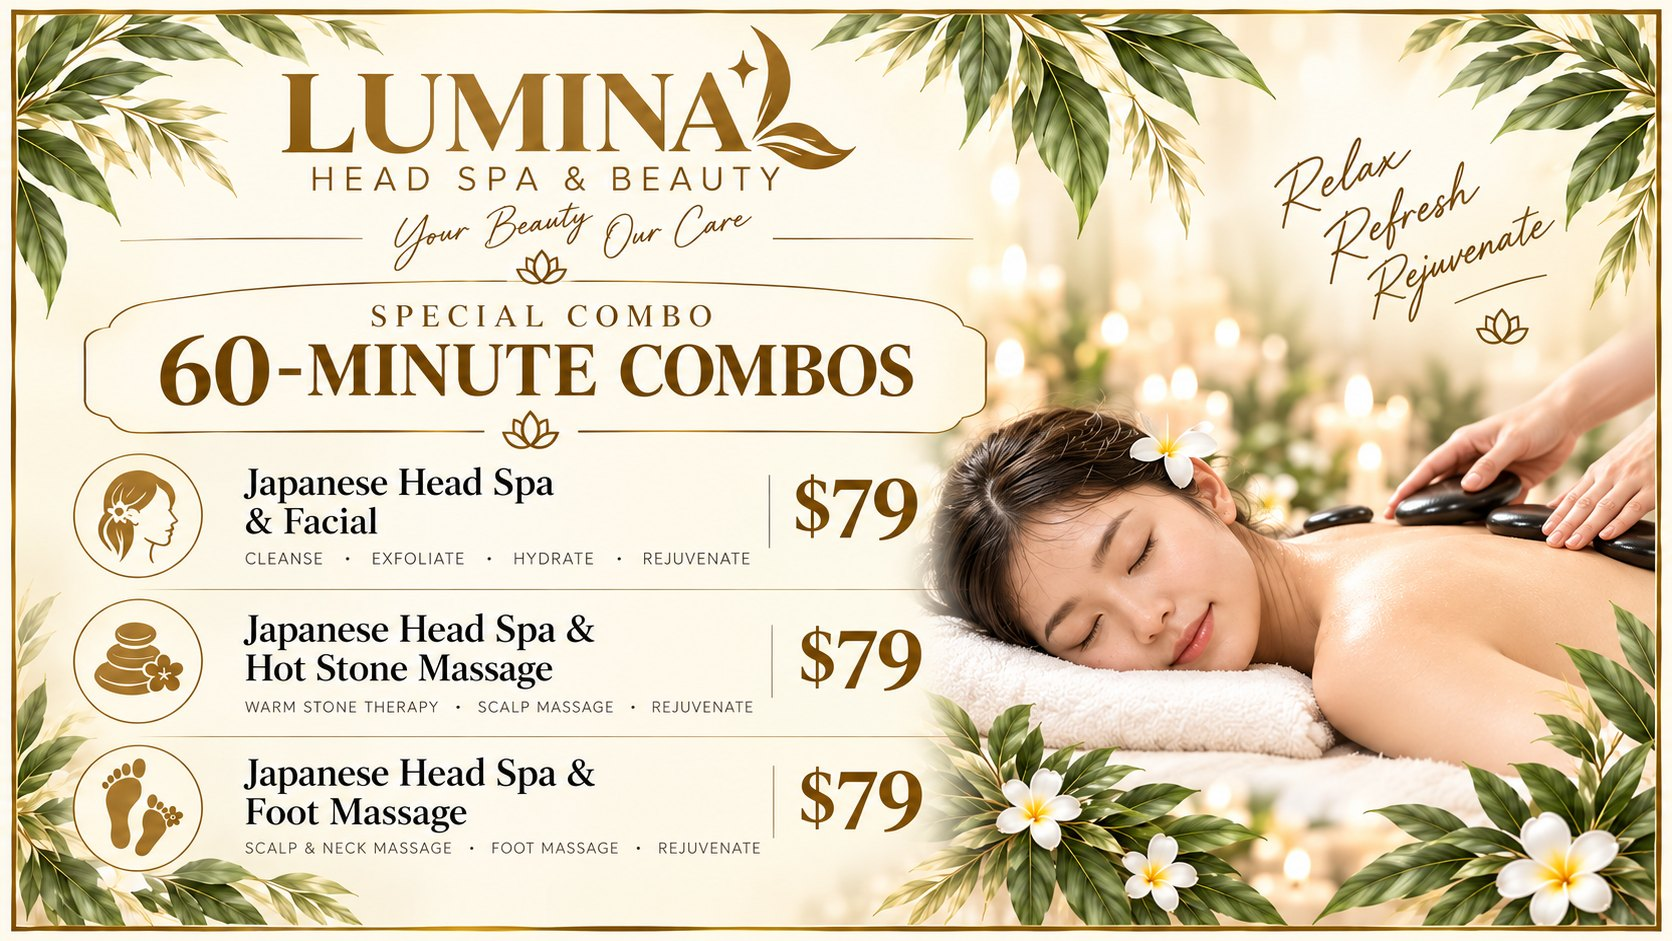
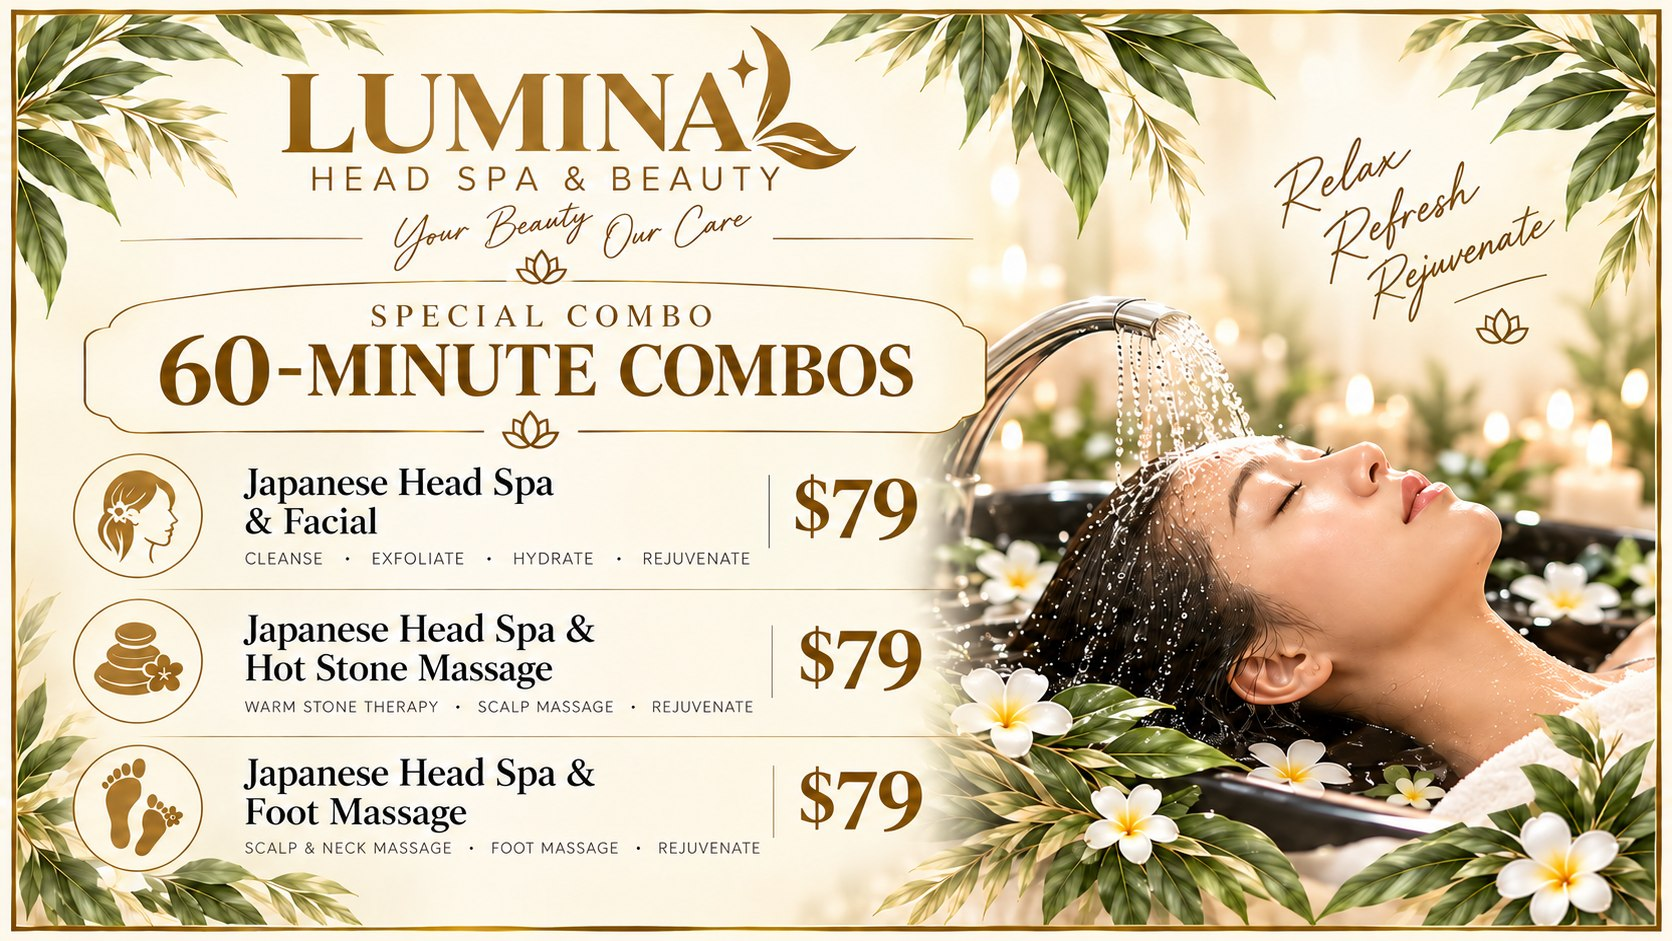
Homepage: new combo posters (head-spa 60-min first); Special Combos moved above Featured Treatments

diff --git a/index.html b/index.html
@@ -394,6 +394,17 @@
       <span><b>647-368-8148</b><br>Call or book online</span>
     </div>
   </div></div></section>
+<section id="combos"><div class="wrap">
+  <div class="sec-head">
+    <div class="kicker">Special Combos</div>
+    <h2>The combos everyone loves.</h2>
+    <p>Our Japanese head spa, paired with a facial, a hot stone massage or a foot massage — one visit, fully restored.</p>
+  </div>
+  <img src="combo-60.jpg?v=20261016" alt="60-minute special combos — Japanese Head Spa with Facial, Hot Stone Massage or Foot Massage, $79 each" style="width:100%;height:auto;display:block;border-radius:18px;box-shadow:0 18px 44px rgba(60,45,20,.16);margin-bottom:22px">
+  <img src="combo-90.jpg?v=20261016" alt="90-minute special combos — Japanese Head Spa with Facial, Hot Stone Massage or Foot Massage, $99 each" style="width:100%;height:auto;display:block;border-radius:18px;box-shadow:0 18px 44px rgba(60,45,20,.16)">
+  <div style="text-align:center;margin-top:28px"><a class="btn" href="#book" onclick="setTimeout(function(){var t=[].slice.call(document.querySelectorAll('.bk-tab')).filter(function(x){return x.textContent==='Combos';})[0];if(t)t.click();},80);return true;" style="display:inline-block;width:auto;padding:13px 36px">Book a Combo →</a></div>
+</div></section>
+
 <section class="prices" id="treatments"><div class="wrap">
   <div class="sec-head">
     <div class="kicker">Featured Treatments</div>
@@ -432,16 +443,7 @@
   </div></div>
 </div></section>
 
-<section id="combos"><div class="wrap">
-  <div class="sec-head">
-    <div class="kicker">Special Combos</div>
-    <h2>The combos everyone loves.</h2>
-    <p>Our Japanese head spa, paired with a facial, a hot stone massage or a foot massage — one visit, fully restored.</p>
-  </div>
-  <img src="combo-60.jpg" alt="60-minute special combos — Japanese Head Spa with Facial, Hot Stone Massage or Foot Massage, $79 each" style="width:100%;height:auto;display:block;border-radius:18px;box-shadow:0 18px 44px rgba(60,45,20,.16);margin-bottom:22px">
-  <img src="combo-90.jpg" alt="90-minute special combos — Japanese Head Spa with Facial, Hot Stone Massage or Foot Massage, $99 each" style="width:100%;height:auto;display:block;border-radius:18px;box-shadow:0 18px 44px rgba(60,45,20,.16)">
-  <div style="text-align:center;margin-top:28px"><a class="btn" href="#book" onclick="setTimeout(function(){var t=[].slice.call(document.querySelectorAll('.bk-tab')).filter(function(x){return x.textContent==='Combos';})[0];if(t)t.click();},80);return true;" style="display:inline-block;width:auto;padding:13px 36px">Book a Combo →</a></div>
-</div></section>
+
 
 <section id="book"><div class="wrap">
   <div class="book-info">
